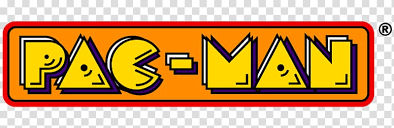
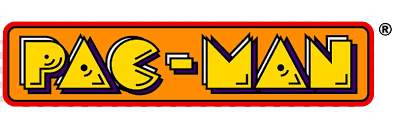
www

Changed region(s): [[0.0, 0.0, 1.0, 1.0], [0.0, 0.2812, 0.0305, 0.3125]]

diff --git a/index.html b/index.html
@@ -62,9 +62,8 @@
     </div>
   </div>
 
-  <!-- JOC (AMAGAT PER DEFECTE) -->
-  <div id="gameContainer" class="hidden">
-    <button id="backToMenu">Tornar al menú</button>
+  <div>
+    <img src="img/pac.png">
   </div>
 
 </body>
